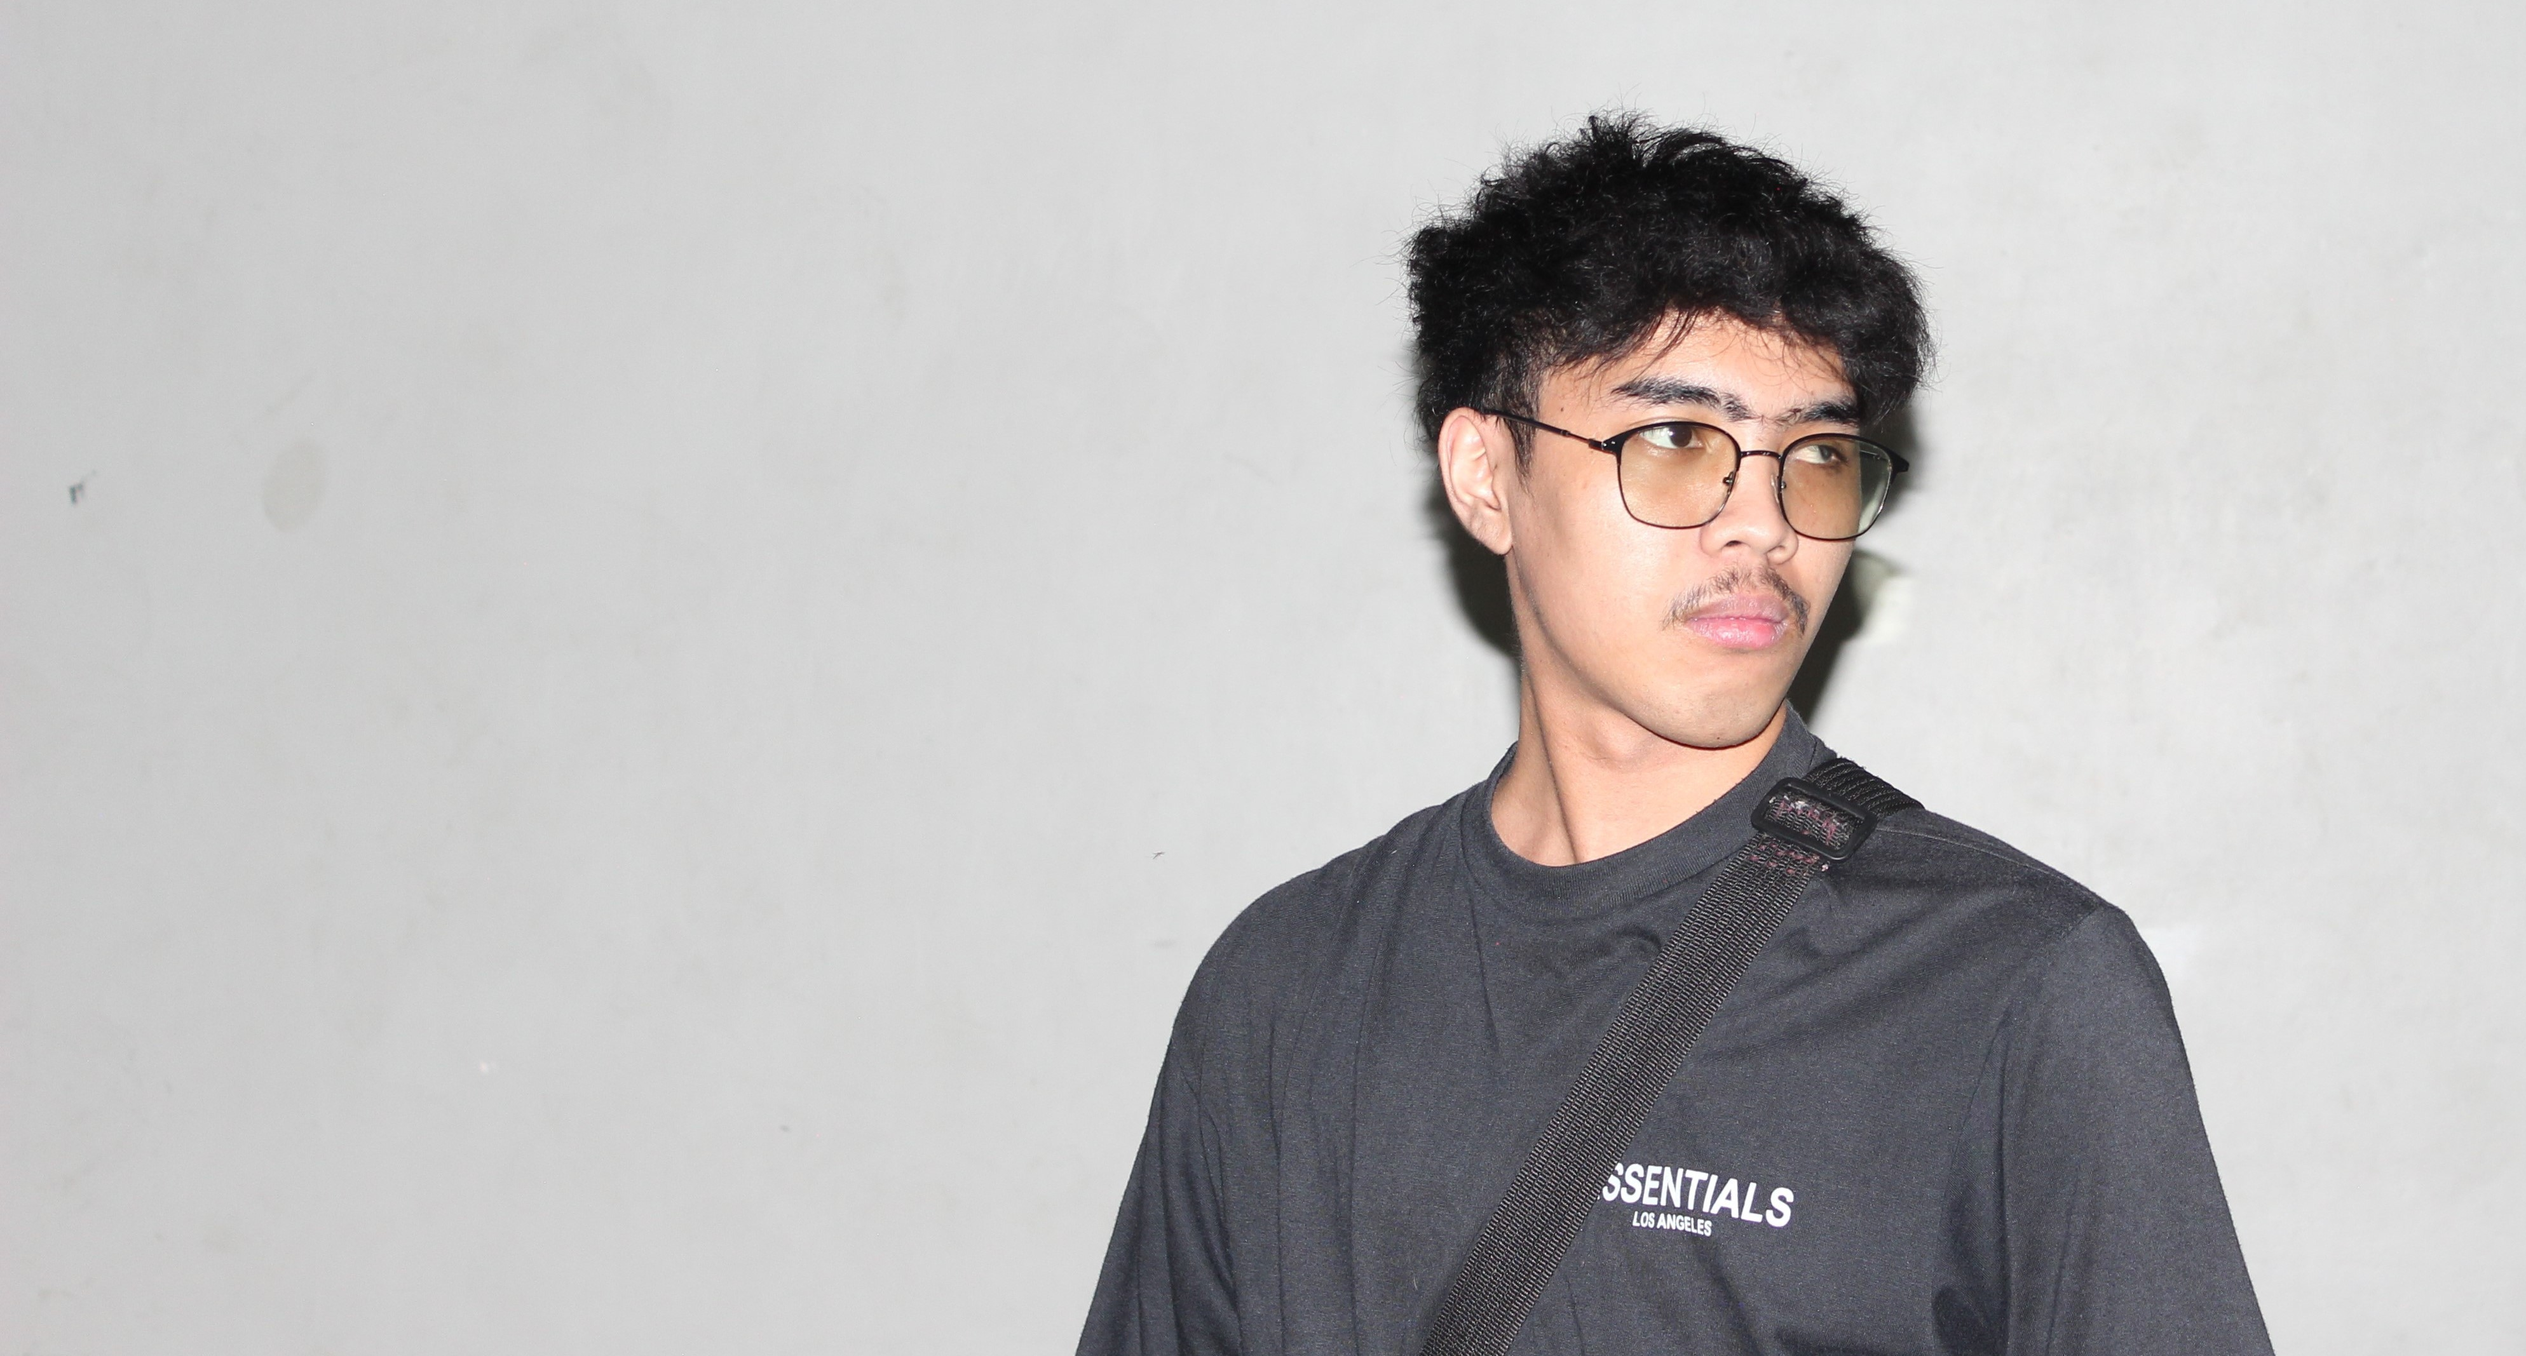
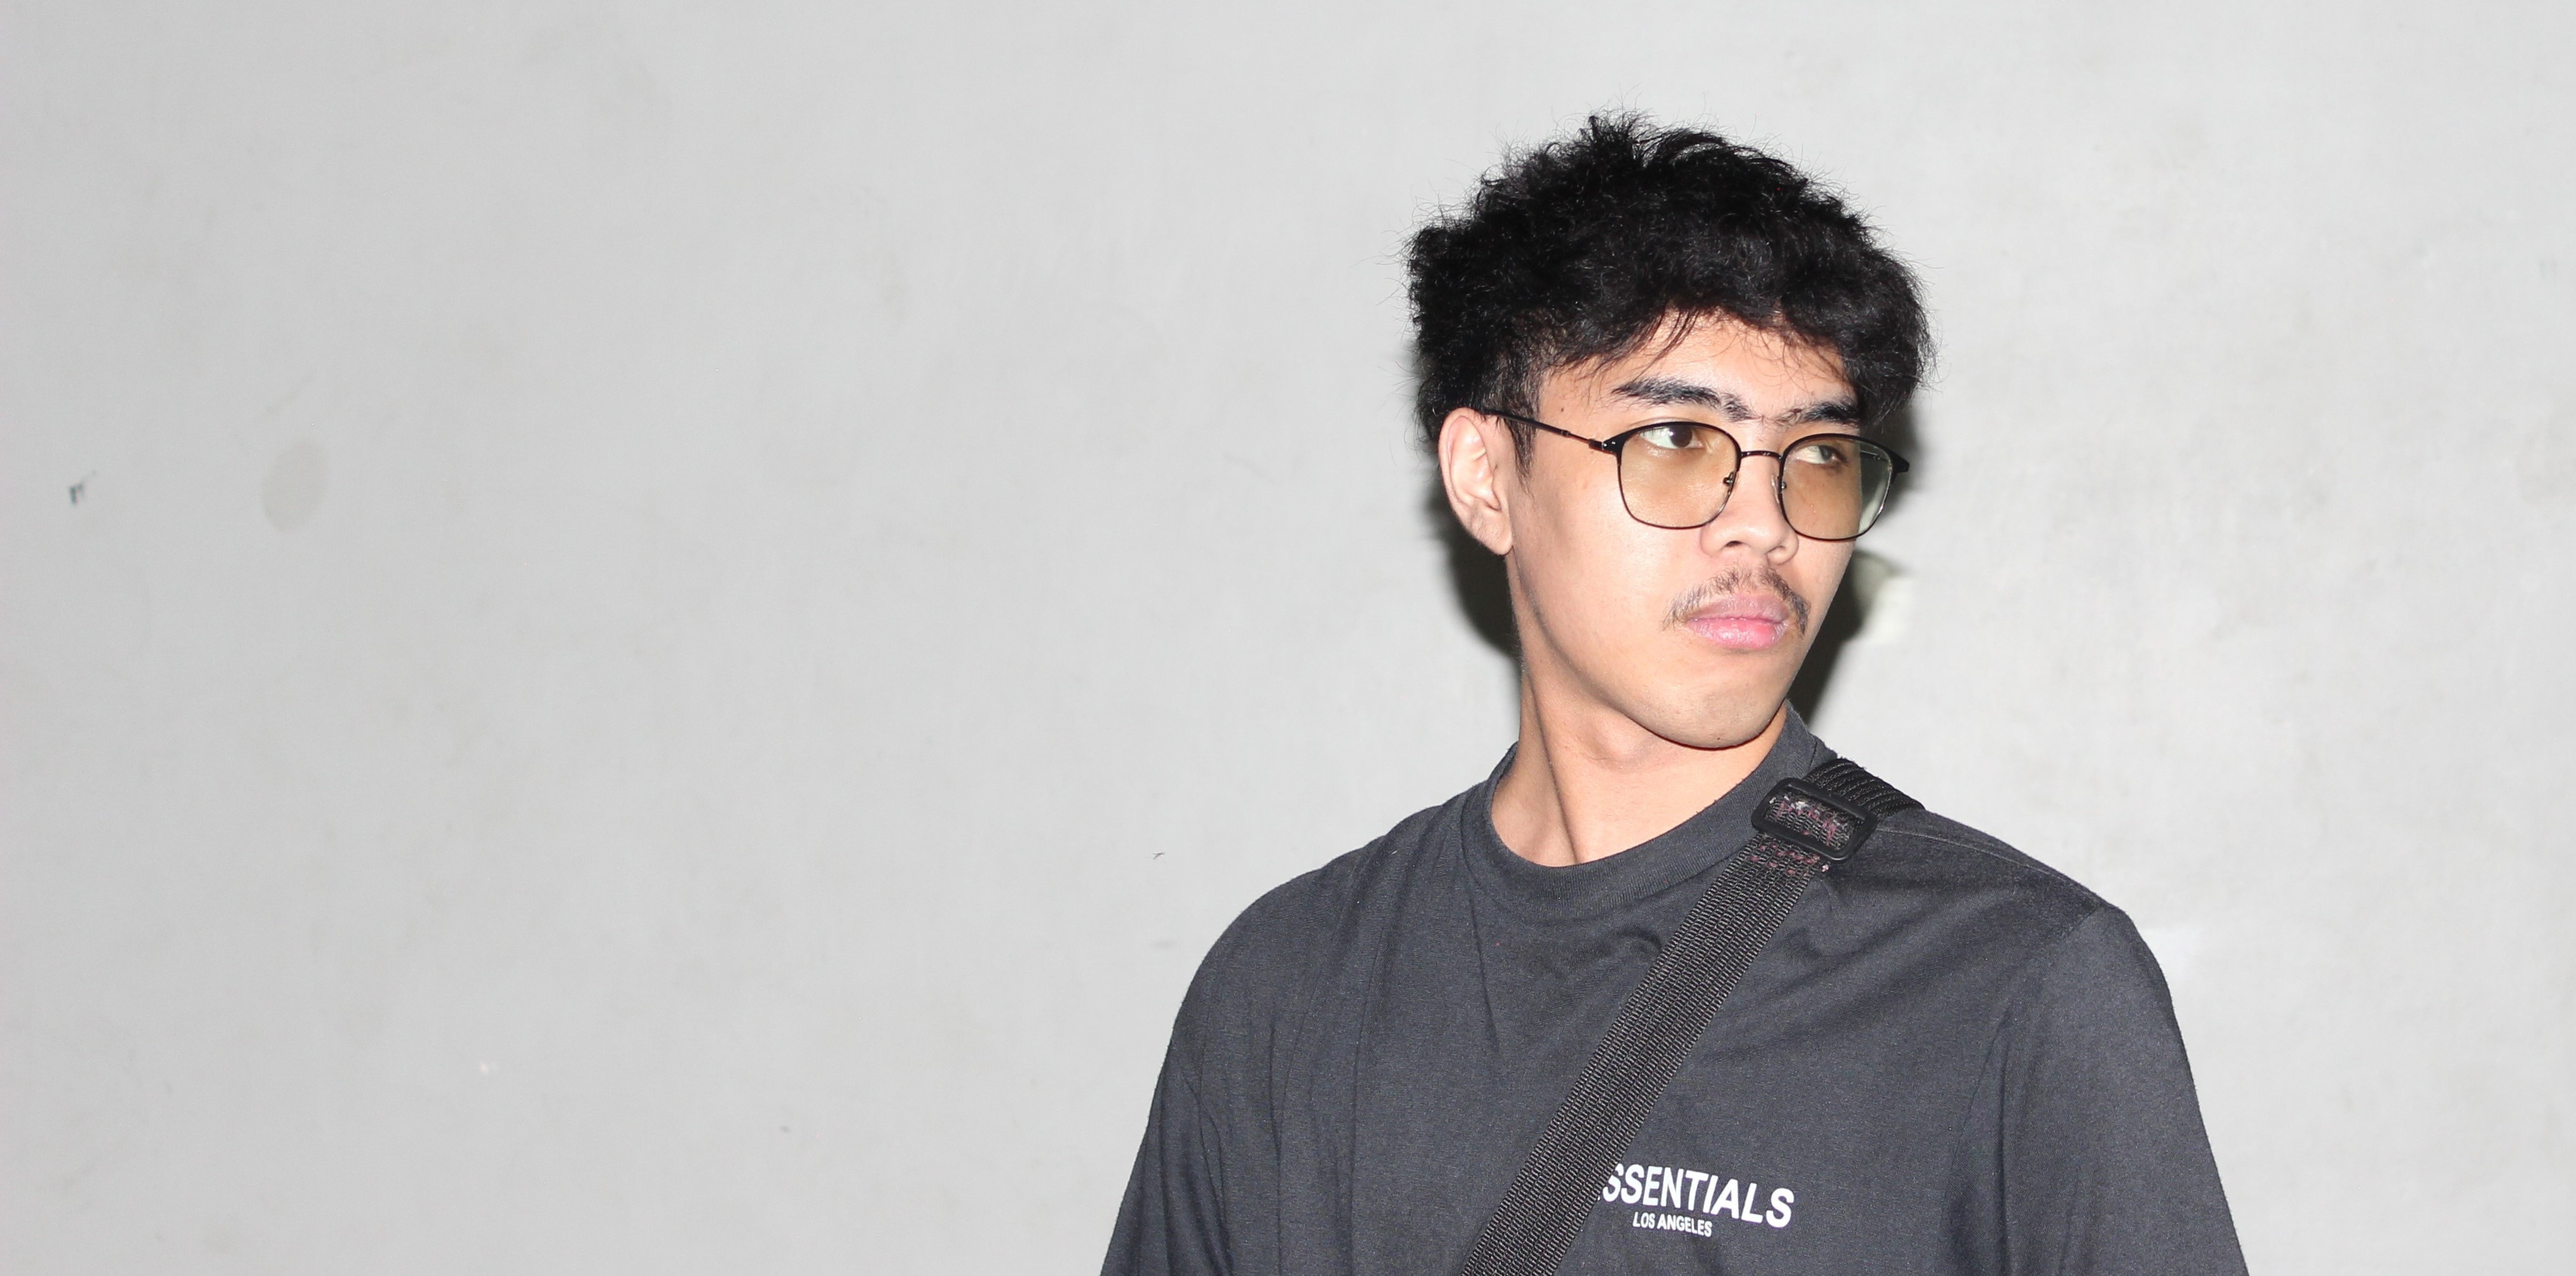
added metadata: title and description

Changed region(s): [[0.4367, 0.0618, 0.9047, 1.0]]

diff --git a/app/layout.tsx b/app/layout.tsx
@@ -27,8 +27,9 @@ const unbounded = Unbounded({
 });
 
 export const metadata: Metadata = {
-  title: "JR Infante - Portfolio",
-  description: "Personal portfolio website",
+  title: "JR Infante | Designer & Developer Portfolio",
+  description:
+    "Explore JR Infante's portfolio of digital experiences, visual design, front-end development, and interactive creative work.",
   icons: {
     icon: "/imgs/workreel-imgs/profile.JPG",
     shortcut: "/imgs/workreel-imgs/profile.JPG",

diff --git a/app/work/tshirt-layouts/layout.tsx b/app/work/tshirt-layouts/layout.tsx
@@ -1,0 +1,13 @@
+import type { Metadata } from "next";
+
+export const metadata: Metadata = {
+  title: "T-Shirt Layouts & Apparel Design | JR Infante",
+  description:
+    "Explore JR Infante's apparel design work, including t-shirt layouts, print placement, vector artwork, and production-ready concepts.",
+};
+
+export default function TshirtLayoutsLayout({
+  children,
+}: Readonly<{ children: React.ReactNode }>) {
+  return children;
+}

diff --git a/app/work/pixel-art/layout.tsx b/app/work/pixel-art/layout.tsx
@@ -1,0 +1,13 @@
+import type { Metadata } from "next";
+
+export const metadata: Metadata = {
+  title: "Pixel Art & Animation | Hexadot",
+  description:
+    "Explore JR Infante's pixel art and animation work, including sprite sheets, animation loops, game-ready assets, and pixel illustrations.",
+};
+
+export default function PixelArtLayout({
+  children,
+}: Readonly<{ children: React.ReactNode }>) {
+  return children;
+}

diff --git a/app/work/18s-music-studio/layout.tsx b/app/work/18s-music-studio/layout.tsx
@@ -1,0 +1,13 @@
+import type { Metadata } from "next";
+
+export const metadata: Metadata = {
+  title: "18S Music Studio Booking App | JR Infante",
+  description:
+    "A music studio booking experience by JR Infante with live room availability, calendar views, and a responsive interface.",
+};
+
+export default function MusicStudioLayout({
+  children,
+}: Readonly<{ children: React.ReactNode }>) {
+  return children;
+}

diff --git a/app/work/poster-events/layout.tsx b/app/work/poster-events/layout.tsx
@@ -1,0 +1,13 @@
+import type { Metadata } from "next";
+
+export const metadata: Metadata = {
+  title: "Event Poster Design | JR Infante",
+  description:
+    "View JR Infante's event poster designs featuring typography, branding, illustration, print production, and social adaptations.",
+};
+
+export default function PosterEventsLayout({
+  children,
+}: Readonly<{ children: React.ReactNode }>) {
+  return children;
+}

diff --git a/app/toolkit/layout.tsx b/app/toolkit/layout.tsx
@@ -1,0 +1,13 @@
+import type { Metadata } from "next";
+
+export const metadata: Metadata = {
+  title: "Toolkit & Skills | JR Infante",
+  description:
+    "Discover the technologies, design tools, and working principles JR Infante uses to build thoughtful digital experiences.",
+};
+
+export default function ToolkitLayout({
+  children,
+}: Readonly<{ children: React.ReactNode }>) {
+  return children;
+}

diff --git a/app/work/layout.tsx b/app/work/layout.tsx
@@ -1,0 +1,13 @@
+import type { Metadata } from "next";
+
+export const metadata: Metadata = {
+  title: "Selected Work | JR Infante",
+  description:
+    "Explore JR Infante's selected work in digital experiences, visual systems, interactive design, and front-end development.",
+};
+
+export default function WorkLayout({
+  children,
+}: Readonly<{ children: React.ReactNode }>) {
+  return children;
+}

diff --git a/app/contact/layout.tsx b/app/contact/layout.tsx
@@ -1,0 +1,13 @@
+import type { Metadata } from "next";
+
+export const metadata: Metadata = {
+  title: "Contact JR Infante",
+  description:
+    "Get in touch with JR Infante about digital design, front-end development, visual systems, and creative projects.",
+};
+
+export default function ContactLayout({
+  children,
+}: Readonly<{ children: React.ReactNode }>) {
+  return children;
+}
